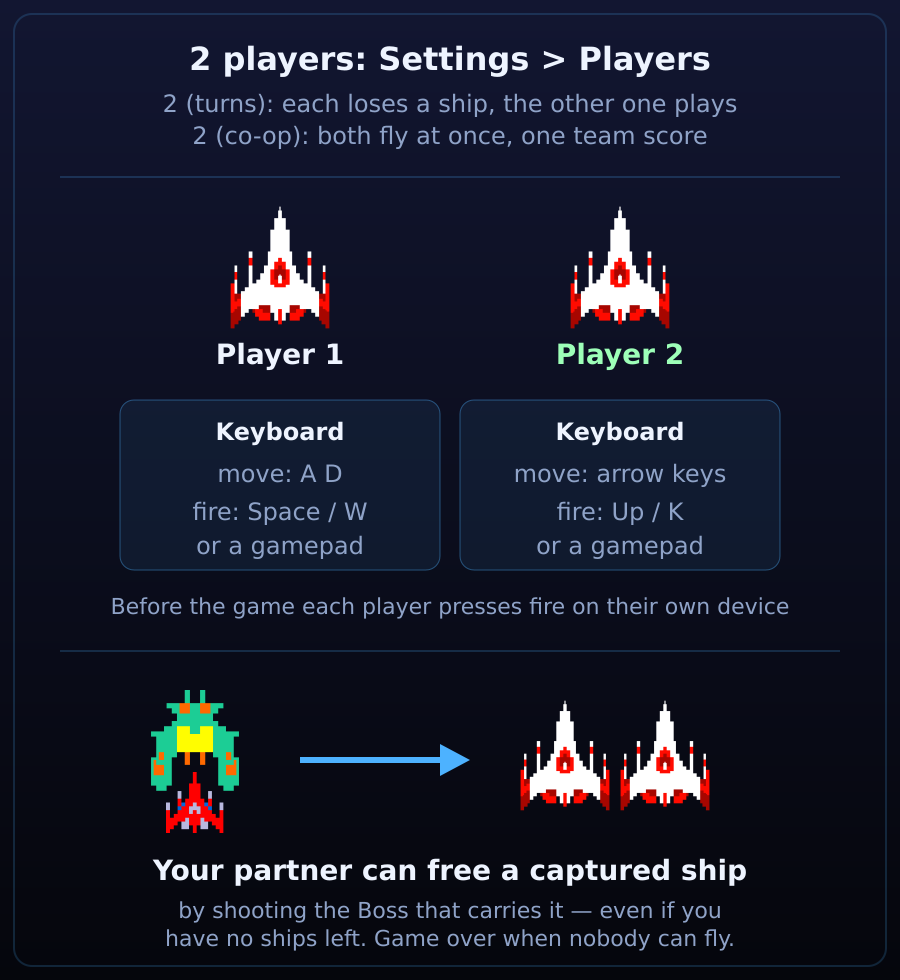
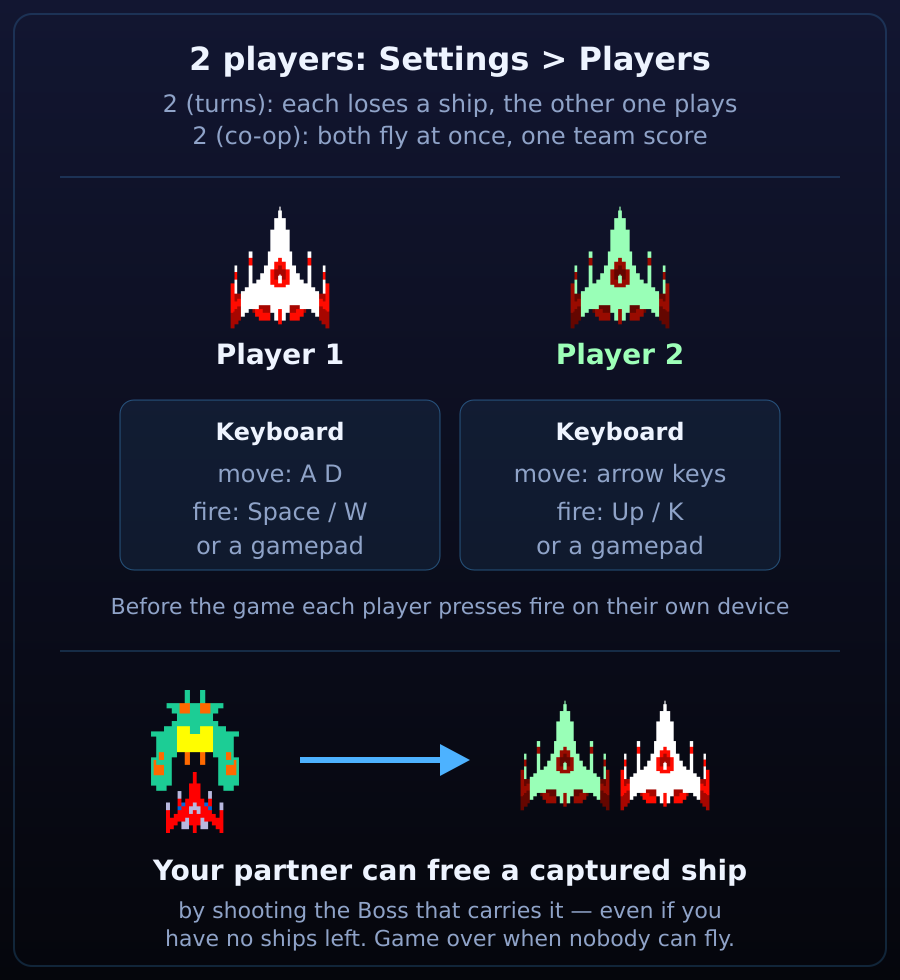
Version 1.2.1: Triebwerksflamme und gemeinsame Pause für den Gast, grünes P2-Schiff in der Hilfe

Changed region(s): [[0.6222, 0.2143, 0.7467, 0.3367], [0.56, 0.7041, 0.6844, 0.8265]]

diff --git a/CLAUDE.md b/CLAUDE.md
@@ -2741,8 +2741,22 @@ Testwerkzeug-Eigenheit, kein Spielfehler).
   **Fallstrick**: kein `pkill -f nettest` im selben Befehl (trifft die eigene
   Shell), und für Screenshots nur das Spielfenster per `xdotool search --name
   galaga` + `import -window <id>` aufnehmen, nie den ganzen Desktop.
+- **v1.2.1 (2026-10-05)**: *Triebwerksflamme beim Gast* — pro Schiff ein
+  Proxy-Node (`NetGuest._ship_fx`), der dem geglätteten Schiff folgt und die
+  echte `main_thruster.tscn` trägt (die zündet von selbst, wenn ihr Elternteil
+  sich seitlich bewegt; Zwillingsschiff = zweite Flamme, `sh` im Schnappschuss
+  liefert Position/sichtbar/twin). *Gemeinsame Pause*: Gast-Pause-Button/-Taste
+  schickt `pause`, der Host pausiert für beide (`pz` im Schnappschuss), der Gast
+  zeigt den Bildschirm `net_pause` (Resume / How to Play / Main Menu→Leave?);
+  Resume schickt `resume`; die Host-Pause zeigt dem Gast ebenfalls `net_pause`.
+  Nach einem eigenen Resume ignoriert der Gast 0,6 s lang veraltete `pz=1`
+  (`_pz_ignore_until`). Bug: der Gast blieb nach „Play Again“ des Hosts auf
+  `GAME_OVER` (Pause wirkungslos) — `_net_guest_started()` setzt `READY`.
+  *Hilfe*: grünes P2-Schiff (`assets/help_src/player_p2.png`, wie die
+  Spiel-Einfärbung `Color(0.6, 1, 0.72)`) in `coop.svg`/`online.svg`, weil
+  Inkscape `filter: hue-rotate` ignoriert.
 - **Noch offen**: auf echten Geräten testen (LAN Handy/PC, Online Mobilnetz),
-  Triebwerksflamme beim Gast, eigene Pause für den Gast, ggf. unzuverlässige
+  ggf. unzuverlässige
   Übertragung für Schnappschüsse (aktuell zuverlässig/geordnet — bei schlechter
   Verbindung staut sich das).
 

diff --git a/TODO.md b/TODO.md
@@ -27,8 +27,8 @@ Mehrspieler (Einschätzung 2026-10-03; lokal umgesetzt am 2026-10-03, Rest offen
       Geräten (Handy/RG552/zwei PCs) noch nicht.
 - [ ] Netz-Coop auf echten Geräten testen: LAN zwischen zwei Rechnern/Handy,
       Online über das Mobilnetz; Verzögerung/Ruckeln beurteilen (Schnappschüsse
-      25/s, Glättung `SMOOTH` in `net_guest.gd`). Bekannte Lücken: keine
-      Triebwerksflamme beim Gast; Gast hat keine eigene Pause (nur „Leave“).
+      25/s, Glättung `SMOOTH` in `net_guest.gd`). (Triebwerksflamme
+      beim Gast und gemeinsame Pause: erledigt in v1.2.1.)
 
 Gemeinsam für die Serie (Vorlage: mario-clone v1.6–v1.9):
 - [ ] Bausteine aus mario-clone übernehmen statt neu erfinden: `CoopInput`
